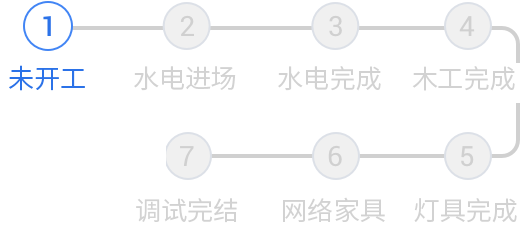
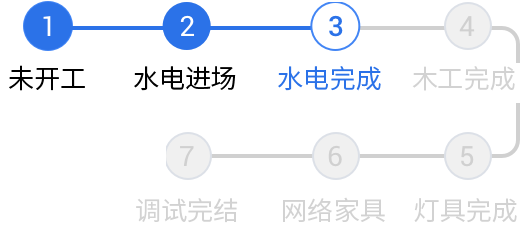
update code

diff --git a/src/views/projectStage.vue b/src/views/projectStage.vue
@@ -1,29 +1,54 @@
 <template>
   <div class="stageDiv">
+
     <div class="stageButton">
-      <button
-        v-for="item in decorationStage"
-        :key="item.value"
-        :id="'projectstage' + item.value"
-        @click="onclick(item)"
-      >
-        {{ item.name }}
-      </button>
+      <span>
+        <img src="../img/x1.png" width="22%" />
+      </span>
+      <span>
+        <img src="../img/chat/state-9.png" width="73%" v-show="stageImg9" />
+        <img src="../img/chat/state-8.png" width="73%" v-show="stageImg8" />
+        <img src="../img/chat/state-1.png" width="73%" v-show="stageImg1" />
+        <img src="../img/chat/state-2.png" width="73%" v-show="stageImg2" />
+        <img src="../img/chat/state-3.png" width="73%" v-show="stageImg3" />
+        <img src="../img/chat/state-4.png" width="73%" v-show="stageImg4" />
+        <img src="../img/chat/state-10.png" width="73%" v-show="stageImg10" />
+      </span>
     </div>
   </div>
 </template>
 <script lang="ts">
-import { Component, Vue } from 'vue-property-decorator'
+import { Component, Vue, Watch } from 'vue-property-decorator'
 import { table, field, decorationStage } from '@/config/config'
-import { SearchInfo, updateTable } from '@/config/interFace'
+import { SearchInfo } from '@/config/interFace'
 
 @Component({})
 export default class Home extends Vue {
   itemId: any = '';
-  userId = localStorage.getItem('userId');
-  decorationStage = decorationStage;
+  decorationStage = decorationStage
+  stageImg1 = false;
+  stageImg2 = false;
+  stageImg3 = false;
+  stageImg4 = false;
+  stageImg8 = false;
+  stageImg9 = false;
+  stageImg10 = false;
+  screenWidth = document.body.clientWidth;
+  comWidth: any = '100px';
+  comHeight: any = '20px';
+
+  @Watch('this.screenWidth')
+  reloadTable () {
+    console.log(11)
+  }
 
   async mounted () {
+    window.onresize = () => {
+      this.screenWidth = document.body.clientWidth
+      this.comWidth = this.screenWidth - 40 + 'px'
+      this.comHeight = this.screenWidth / 3 - 10 + 'px'
+    }
+
     // 获取当前用户客户装修阶段
     const chatId = localStorage.getItem('chatID')
     const obj = {
@@ -41,43 +66,82 @@ export default class Home extends Vue {
     }
     const result = await SearchInfo(table.projectInfo, obj)
     for (let i = 0; i < result.length; i++) {
-      this.itemId = result[0].item_id
+      this.itemId = result[0].item_id + ''
       const fields = result[0].fields
       for (let j = 0; j < fields.length; j++) {
         if (fields[j].field_id === field.projectStage) {
           var id = fields[j].values[0].id
-          const dom: any = document.getElementById('projectstage' + id)
-          dom.className = 'selected'
+          this.StageImg(id)
         }
       }
     }
   }
 
-  // 选中
-  onclick = (items: any) => {
-    // 获取选中对象 删除class
-    const obj: any = document.getElementsByClassName('selected')
-    for (let i = 0; i < obj.length; i++) {
-      const id = obj[i].id
-      const dom: any = document.getElementById(id)
-      dom.className = ''
-    }
-    // 设置新的选中对象
-    const dom: any = document.getElementById('projectstage' + items.value)
-    dom.className = 'selected'
-    // 发送请求
-    this.updateData(items)
-  };
-
-  // 更新关系
-  async updateData (items: any) {
-    const objs: any = {
-      fields: {
-        [field.projectStage]: [parseInt(items.value)]
+  // 选中图片
+  StageImg (itemid: any) {
+    for (let i = 0; i < this.decorationStage.length; i++) {
+      const value = this.decorationStage[i].value
+      if (itemid === value) {
+        this.updateImg(value)
       }
     }
-    await updateTable(this.itemId, objs)
   }
+
+  updateImg (value: any) {
+    this.stageImg1 = false
+    this.stageImg2 = false
+    this.stageImg3 = false
+    this.stageImg4 = false
+    this.stageImg8 = false
+    this.stageImg9 = false
+    this.stageImg10 = false
+    if (value === 1) {
+      this.stageImg1 = true
+    } else if (value === 2) {
+      this.stageImg2 = true
+    } else if (value === 3) {
+      this.stageImg3 = true
+    } else if (value === 4) {
+      this.stageImg4 = true
+    } else if (value === 8) {
+      this.stageImg8 = true
+    } else if (value === 9) {
+      this.stageImg9 = true
+    } else if (value === 10) {
+      this.stageImg10 = true
+    }
+  }
+
+  updateStage (item: any) {
+    console.log(item)
+    this.updateImg(item.value)
+  }
+
+  // // 选中
+  // onclick = (items: any) => {
+  //   // 获取选中对象 删除class
+  //   const obj: any = document.getElementsByClassName('selected')
+  //   for (let i = 0; i < obj.length; i++) {
+  //     const id = obj[i].id
+  //     const dom: any = document.getElementById(id)
+  //     dom.className = ''
+  //   }
+  //   // 设置新的选中对象
+  //   const dom: any = document.getElementById('projectstage' + items.value)
+  //   dom.className = 'selected'
+  //   // 发送请求
+  //   this.updateData(items)
+  // };
+
+  // // 更新关系
+  // async updateData (items: any) {
+  //   const objs: any = {
+  //     fields: {
+  //       [field.projectStage]: [parseInt(items.value)]
+  //     }
+  //   }
+  //   await updateTable(this.itemId, objs)
+  // }
 }
 </script>
 <style></style>

diff --git a/src/views/customerStage.vue b/src/views/customerStage.vue
@@ -11,7 +11,7 @@
         <img src="../img/x1.png" width="22%" />
       </span>
       <span>
-        <img id="img" src="../img/person/state-1.png" width="73%" v-show="stageImg1" />
+        <img src="../img/person/state-1.png" width="73%" v-show="stageImg1" />
         <img src="../img/person/state-2.png" width="73%" v-show="stageImg2" />
         <img src="../img/person/state-3.png" width="73%" v-show="stageImg3" />
         <img src="../img/person/state-4.png" width="73%" v-show="stageImg4" />
@@ -49,7 +49,6 @@ export default class Home extends Vue {
   stageImg7 = false;
   stageImg8 = false;
   screenWidth = document.body.clientWidth;
-
   comWidth: any = '100px';
   comHeight: any = '20px';
 
@@ -137,11 +136,6 @@ export default class Home extends Vue {
     }
   }
 
-  updateStage (item: any) {
-    console.log(item)
-    this.updateImg(item.value)
-  }
-
   updateImg (value: any) {
     this.stageImg1 = false
     this.stageImg2 = false
@@ -168,6 +162,11 @@ export default class Home extends Vue {
     } else if (value === 8) {
       this.stageImg8 = true
     }
+  }
+
+  updateStage (item: any) {
+    console.log(item)
+    this.updateImg(item.value)
   }
 
   // // 选择

diff --git a/src/config/config.ts b/src/config/config.ts
@@ -120,25 +120,25 @@ export const houseType = [{
 // 装修进度
 export const decorationStage = [{
   name: '未开工',
-  value: '9'
+  value: 9
 }, {
   name: '水电进场',
-  value: '8'
+  value: 8
 }, {
   name: '水电完成',
-  value: '1'
+  value: 1
 }, {
   name: '木工完成',
-  value: '2'
+  value: 2
 }, {
   name: '灯具完成',
-  value: '3'
+  value: 3
 }, {
   name: '网络家具',
-  value: '4'
+  value: 4
 }, {
   name: '调试完结',
-  value: '10'
+  value: 10
 }]
 
 // 目前任务
